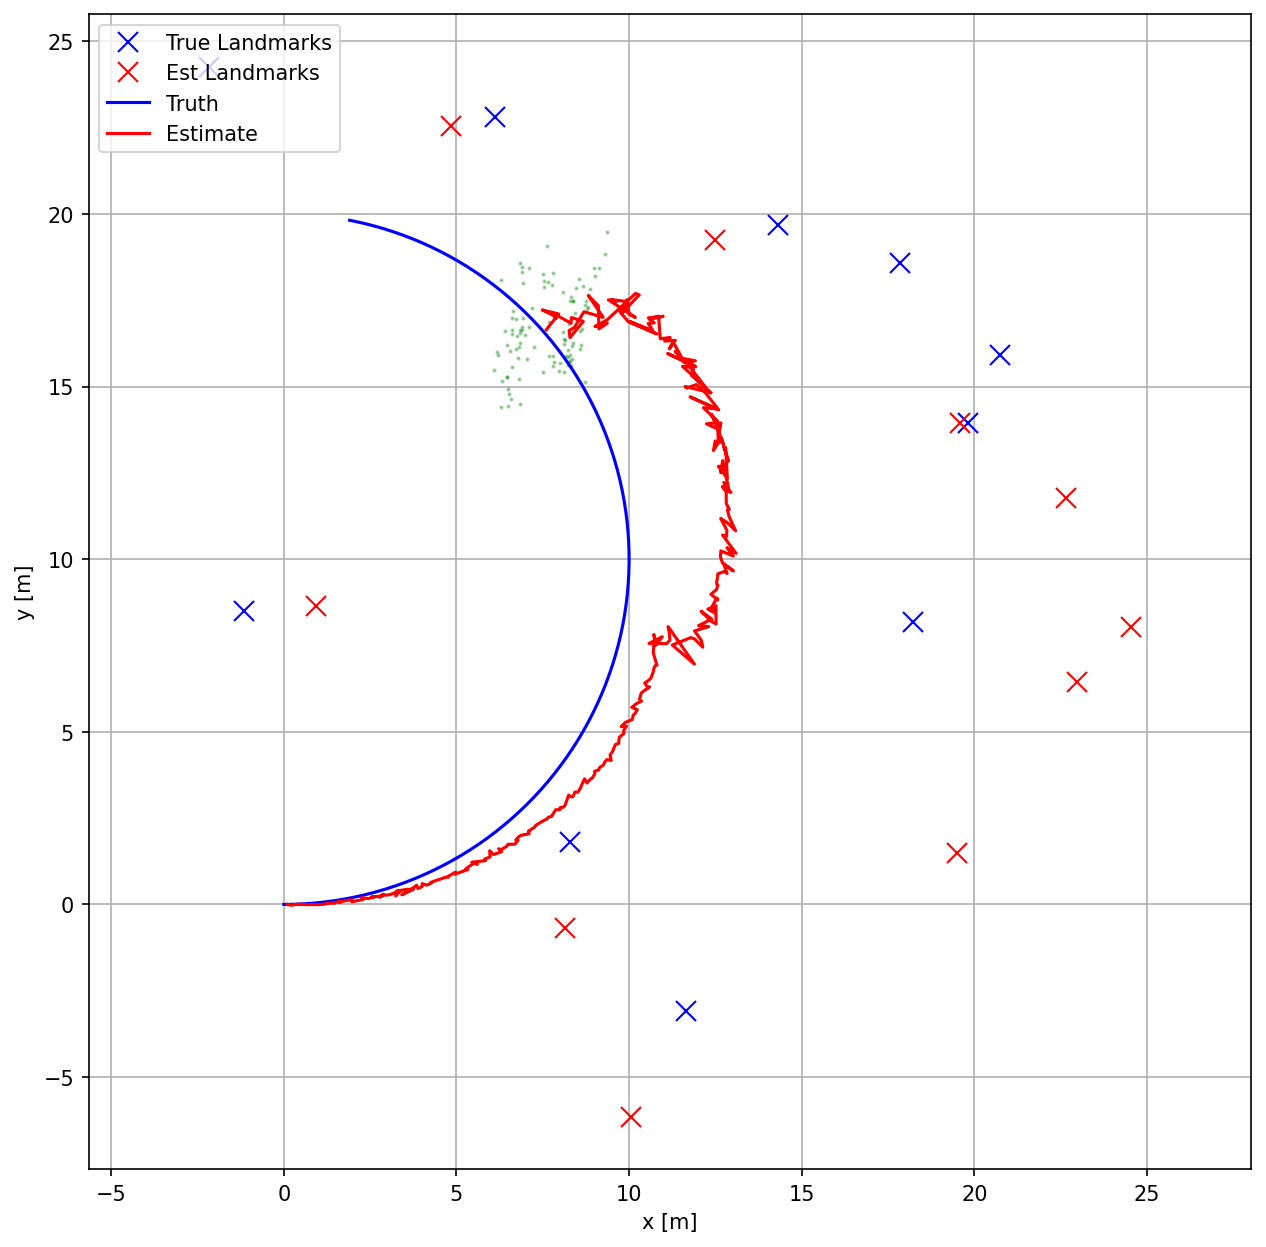
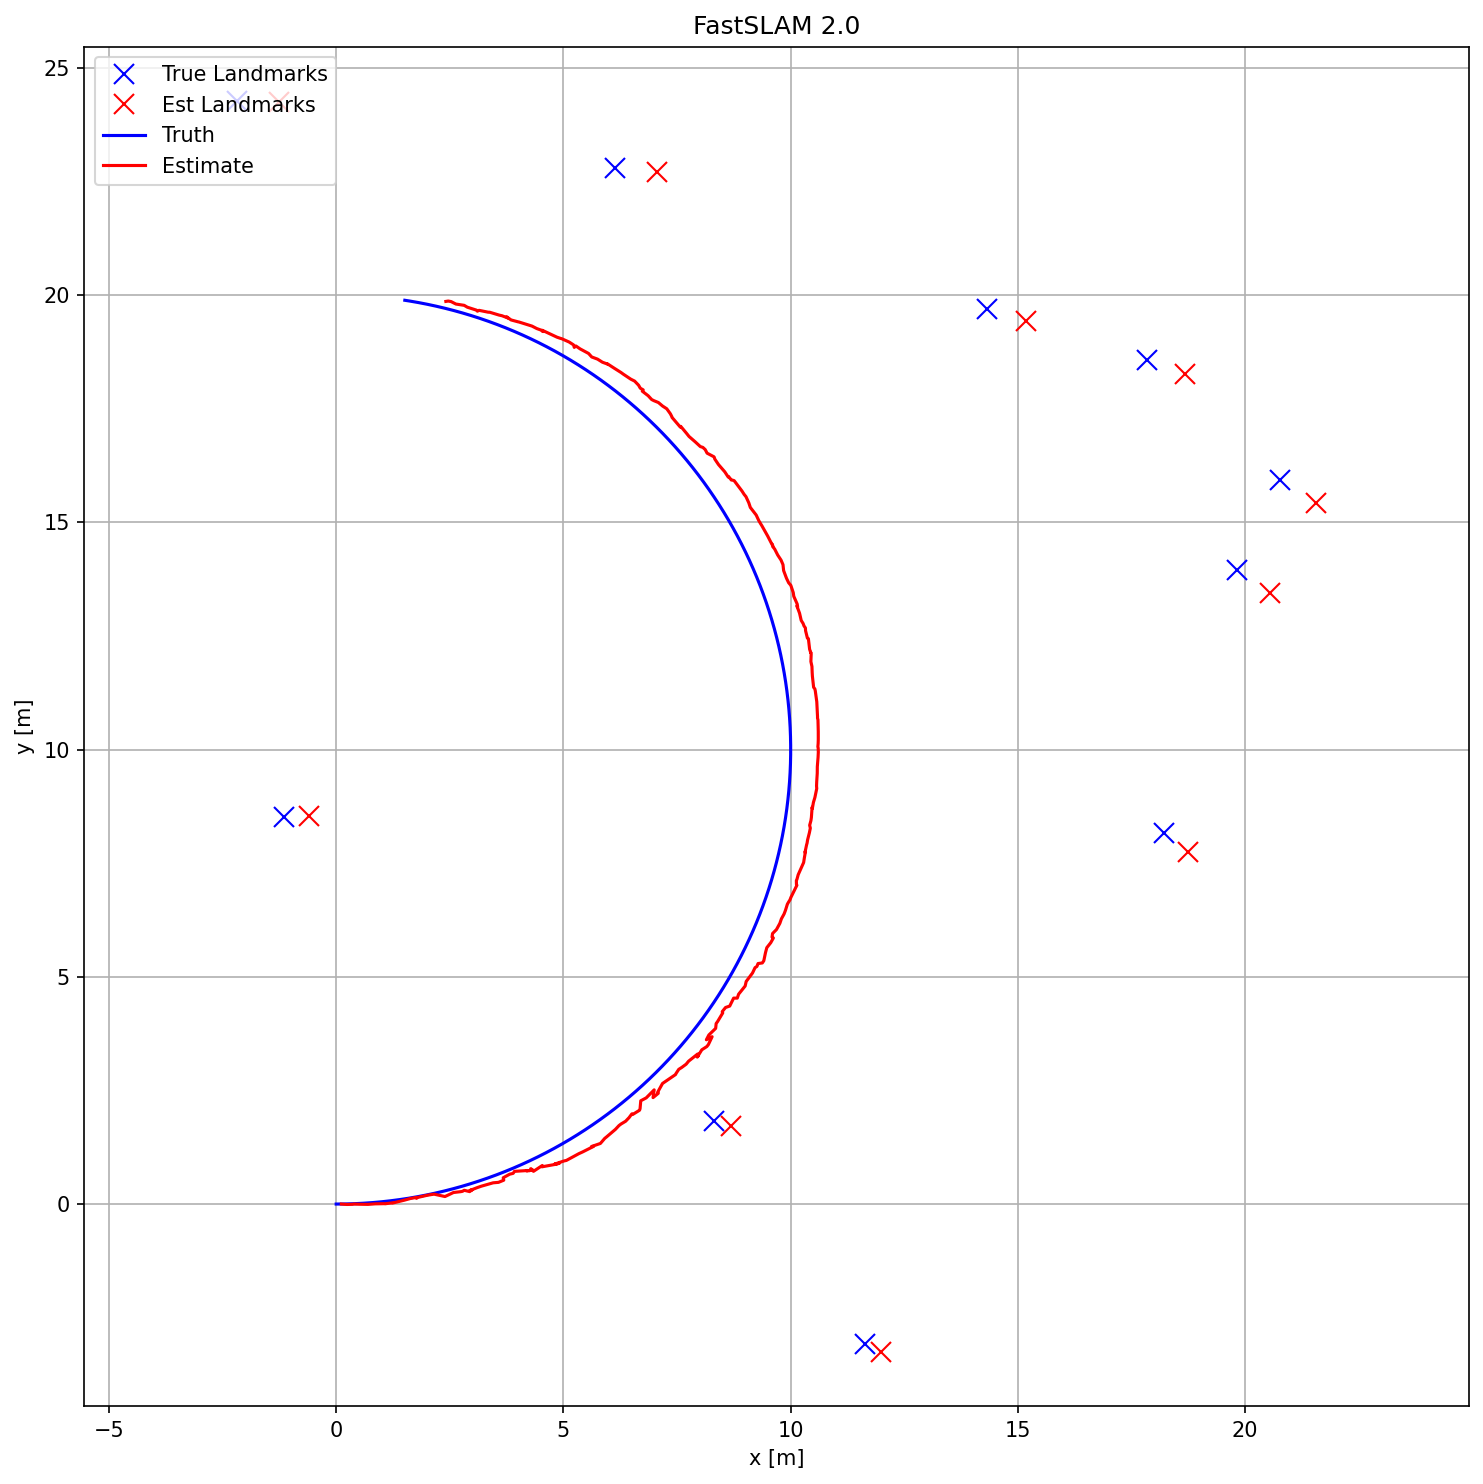
feat: optimize FastSLAM 2.0 - fix weight accumulation bug, add covariance propagation, tune resampling threshold
- Fix critical weight overwrite bug: p['w'] = compute_weight() -> p['w'] *= compute_weight()
- Add EKF covariance propagation in predict_particles() via F/G Jacobians
- Fix resampling never triggered: replace EMA adaptive threshold with fixed NTh=NP*0.5
- Tune parameters: NP=100->200, R_motion sigma_v=0.5->0.2, sigma_yaw=10->5deg, adaptive=False
- Add diagnostic output: RMSE, max error, first/last 50 steps, resample count, N_eff stats
- Add RMSE assertion (<0.5m threshold)
- Update fast_slam() return signature: (particles, did_resample, n_eff_pre)
- Update all callers: slam_pipeline.py, test_all_modules.py, visual_test.py, localization_slam_viz_test.py
- Remove 13 unused _2/_3/_optimized screenshot images from docs/images/

diff --git a/SLAM/fast_slam.py b/SLAM/fast_slam.py
@@ -52,7 +52,21 @@ def adaptive_R_motion_slam(R_base, u, curvature_scale=3.0, accel_scale=0.5):
 
 def predict_particles(particles, u, R_motion, dt):
     rng = np.random.default_rng()
+    v_nom, yaw_rate_nom = u
     for p in particles:
+        yaw = p["yaw"]
+        F = np.array([
+            [1.0, 0.0, -v_nom * np.sin(yaw) * dt],
+            [0.0, 1.0,  v_nom * np.cos(yaw) * dt],
+            [0.0, 0.0, 1.0]
+        ])
+        G = np.array([
+            [np.cos(yaw) * dt, 0.0],
+            [np.sin(yaw) * dt, 0.0],
+            [0.0, dt]
+        ])
+        p["P"] = F @ p["P"] @ F.T + G @ R_motion @ G.T
+        p["P"] = 0.5 * (p["P"] + p["P"].T)
         noise = rng.multivariate_normal(np.zeros(2), R_motion)
         u_noised = u + noise
         new_pose = motion_model_slam(particle_pose(p), u_noised, dt)
@@ -213,8 +227,10 @@ def resampling(particles, n_threshold):
     weights = np.array([p["w"] for p in particles])
     weights = weights / (weights.sum() + 1e-300)
     n_eff = 1.0 / (np.sum(weights**2) + 1e-300)
+    did_resample = False
 
     if n_eff < n_threshold:
+        did_resample = True
         n = len(particles)
         positions = (np.arange(n) + np.random.uniform()) / n
         cumsum = np.cumsum(weights)
@@ -234,7 +250,7 @@ def resampling(particles, n_threshold):
         particles = new_particles
         particles = slam_roughening(particles)
 
-    return particles
+    return particles, did_resample, n_eff
 
 # === Phase 10: FastSLAM ===
 
@@ -254,7 +270,7 @@ def fast_slam(particles, u, z, Q, R_motion, dt, n_threshold, adaptive=True):
                 p = add_new_landmark(p, z_valid, Q)
                 for obs in z_valid:
                     obs_single = obs.reshape(1, -1)
-                    p["w"] = compute_weight(p, obs_single, Q)
+                    p["w"] *= compute_weight(p, obs_single, Q)
                     p = update_landmark(p, obs_single, Q)
                     p = proposal_sampling(p, obs_single, Q)
 
@@ -267,9 +283,9 @@ def fast_slam(particles, u, z, Q, R_motion, dt, n_threshold, adaptive=True):
         for p in particles:
             p["w"] = 1.0 / n
 
-    particles = resampling(particles, n_threshold)
+    particles, did_resample, n_eff_pre = resampling(particles, n_threshold)
 
-    return particles
+    return particles, did_resample, n_eff_pre
 
 def estimate_from_particles(particles):
     weights = np.array([p["w"] for p in particles])
@@ -342,12 +358,10 @@ def generate_slam_test(n_steps=300, dt=0.1, n_landmarks=10, seed=42):
 
 def run_fast_slam_demo():
     dt = 0.1
-    NP = 100
-    NTh = NP / 2.0
-    n_eff_ema = float(NP)
-    n_eff_alpha = 0.1
+    NP = 200
+    NTh = NP * 0.5
     Q = np.diag([0.2, np.deg2rad(5.0)]) ** 2
-    R_motion = np.diag([0.5, np.deg2rad(10.0)]) ** 2
+    R_motion = np.diag([0.2, np.deg2rad(5.0)]) ** 2
 
     true_traj, observations_seq, controls, landmarks = generate_slam_test(dt=dt)
     n_steps = len(true_traj)
@@ -358,30 +372,30 @@ def run_fast_slam_demo():
                  for _ in range(NP)]
 
     est_traj = np.zeros((n_steps, 3))
+    resample_count = 0
+    n_eff_min = float(NP)
 
     for i in range(n_steps):
-        particles = fast_slam(particles, controls[i], observations_seq[i], Q, R_motion, dt, NTh)
+        particles, did_resample, n_eff_pre = fast_slam(particles, controls[i], observations_seq[i], Q, R_motion, dt, NTh, adaptive=False)
         est_traj[i], P_est = estimate_from_particles(particles)
-        pw = np.array([p["w"] for p in particles])
-        n_eff = 1.0 / max(pw @ pw, 1e-300)
-        n_eff_ema = n_eff_alpha * n_eff + (1 - n_eff_alpha) * n_eff_ema
-        NTh = max(NP * 0.1, n_eff_ema * 0.5)
+        n_eff_min = min(n_eff_min, n_eff_pre)
+        if did_resample:
+            resample_count += 1
 
     err = est_traj[:, :2] - true_traj[:, :2]
     rmse = np.sqrt(np.mean(err**2))
     print(f"[FastSLAM] RMSE = {rmse:.3f}m (NP={NP})")
+    print(f"[FastSLAM] Resample={resample_count}/{n_steps}  N_eff_min={n_eff_min:.1f}")
     return rmse
 
 show_animation = True
 
 def main():
     dt = 0.1
-    NP = 100
-    NTh = NP / 1.5
-    n_eff_ema = float(NP)
-    n_eff_alpha = 0.1
+    NP = 200
+    NTh = NP * 0.5
     Q = np.diag([0.2, np.deg2rad(5.0)]) ** 2
-    R_motion = np.diag([0.5, np.deg2rad(10.0)]) ** 2
+    R_motion = np.diag([0.2, np.deg2rad(5.0)]) ** 2
 
     true_traj, observations_seq, controls, landmarks = generate_slam_test(dt=dt)
     n_steps = len(true_traj)
@@ -391,19 +405,20 @@ def main():
                                   n_landmarks=n_landmarks)
                  for _ in range(NP)]
     est_traj = np.zeros((n_steps, 3))
+    resample_count = 0
+    n_eff_history = np.zeros(n_steps)
 
     if show_animation:
         plt.ion()
         fig, ax = plt.subplots(figsize=(10, 10))
 
     for i in range(n_steps):
-        particles = fast_slam(particles, controls[i], observations_seq[i],
-                              Q, R_motion, dt, NTh)
+        particles, did_resample, n_eff_pre = fast_slam(particles, controls[i], observations_seq[i],
+                              Q, R_motion, dt, NTh, adaptive=False)
         est_traj[i], lm_est = estimate_from_particles(particles)
-        pw = np.array([p["w"] for p in particles])
-        n_eff = 1.0 / max(pw @ pw, 1e-300)
-        n_eff_ema = n_eff_alpha * n_eff + (1 - n_eff_alpha) * n_eff_ema
-        NTh = max(NP * 0.1, n_eff_ema * 0.5)
+        n_eff_history[i] = n_eff_pre
+        if did_resample:
+            resample_count += 1
 
         if show_animation and i % 5 == 0:
             plt.cla()
@@ -435,6 +450,15 @@ def main():
     err_angle = np.abs(np.rad2deg(normalize_angle(err_angle_raw)))
     t = np.arange(n_steps) * dt
 
+    n50 = min(50, n_steps)
+    rmse_first50 = np.sqrt(np.mean(err_pos[:n50] ** 2))
+    rmse_last50 = np.sqrt(np.mean(err_pos[-n50:] ** 2))
+    rmse = np.sqrt(np.mean(err_pos ** 2))
+    rmse_angle = np.sqrt(np.mean(err_angle ** 2))
+    max_err = np.max(err_pos)
+    n_eff_mean = np.mean(n_eff_history)
+    n_eff_min = np.min(n_eff_history)
+
     fig2, (ax1, ax2) = plt.subplots(2, 1, figsize=(10, 6), tight_layout=True)
     ax1.plot(t, err_pos, "-r")
     ax1.set_xlabel("Time [s]")
@@ -445,8 +469,10 @@ def main():
     ax2.set_ylabel("Angle Error [deg]")
     ax2.grid(True)
 
-    rmse = np.sqrt(np.mean(err_pos ** 2))
-    print(f"[FastSLAM] RMSE = {rmse:.3f}m (NP={NP})")
+    print(f"[FastSLAM] RMSE_pos={rmse:.3f}m  RMSE_angle={rmse_angle:.2f}deg  Max={max_err:.3f}m")
+    print(f"[FastSLAM] First50={rmse_first50:.3f}m  Last50={rmse_last50:.3f}m")
+    print(f"[FastSLAM] Resample={resample_count}/{n_steps}  N_eff_mean={n_eff_mean:.1f}  N_eff_min={n_eff_min:.1f}")
+    assert rmse < 0.5, f"RMSE={rmse:.3f}m exceeds 0.5m threshold"
 
     plt.show()
 

diff --git a/SLAM/slam_pipeline.py b/SLAM/slam_pipeline.py
@@ -33,7 +33,7 @@ def run_slam_pipeline(n_steps=300, dt=0.1, n_landmarks=10, n_particles=100):
     rmse_hist = np.zeros(n_steps)
 
     for i in range(n_steps):
-        particles = fast_slam(particles, controls[i], observations_seq[i],
+        particles, _, _ = fast_slam(particles, controls[i], observations_seq[i],
                                Q, R_motion, dt, NTh)
         est_traj[i], lm_est = estimate_from_particles(particles)
         est_lm_hist.append(lm_est)

diff --git a/tests/localization_slam_viz_test.py b/tests/localization_slam_viz_test.py
@@ -244,7 +244,7 @@ def run_fastslam(true_states, controls, observations, landmarks,
     est = np.zeros((n, 3))
     lm_hist = []
     for i in range(n):
-        particles = fast_slam(particles, controls[i], observations[i], Q, R_motion, dt, NTh)
+        particles, _, _ = fast_slam(particles, controls[i], observations[i], Q, R_motion, dt, NTh)
         est[i], lm_est = estimate_from_particles(particles)
         lm_hist.append(lm_est)
     return est, lm_hist

diff --git a/tests/test_all_modules.py b/tests/test_all_modules.py
@@ -404,7 +404,7 @@ def test_fast_slam():
                                   n_landmarks=5) for _ in range(NP)]
     est_traj = np.zeros((50, 3))
     for i in range(50):
-        particles = fast_slam(particles, controls[i], obs_seq[i], Q, R_motion, dt, NTh)
+        particles, _, _ = fast_slam(particles, controls[i], obs_seq[i], Q, R_motion, dt, NTh)
         est_traj[i], _ = estimate_from_particles(particles)
     err = est_traj[:, :2] - true_traj[:, :2]
     rmse = np.sqrt(np.mean(err ** 2))

diff --git a/tests/visual_test.py b/tests/visual_test.py
@@ -535,7 +535,7 @@ def scene6_slam():
     fig.suptitle("Scene 6: SLAM Pipeline", fontsize=14, fontweight='bold')
 
     for i in range(n_steps):
-        particles = fast_slam(particles, controls[i], obs_seq[i], Q, R_motion, dt, NTh)
+        particles, _, _ = fast_slam(particles, controls[i], obs_seq[i], Q, R_motion, dt, NTh)
         est_traj[i], _ = estimate_from_particles(particles)
         err = est_traj[i, :2] - true_traj[i, :2]
         rmse_hist[i] = np.sqrt(np.mean(err**2))